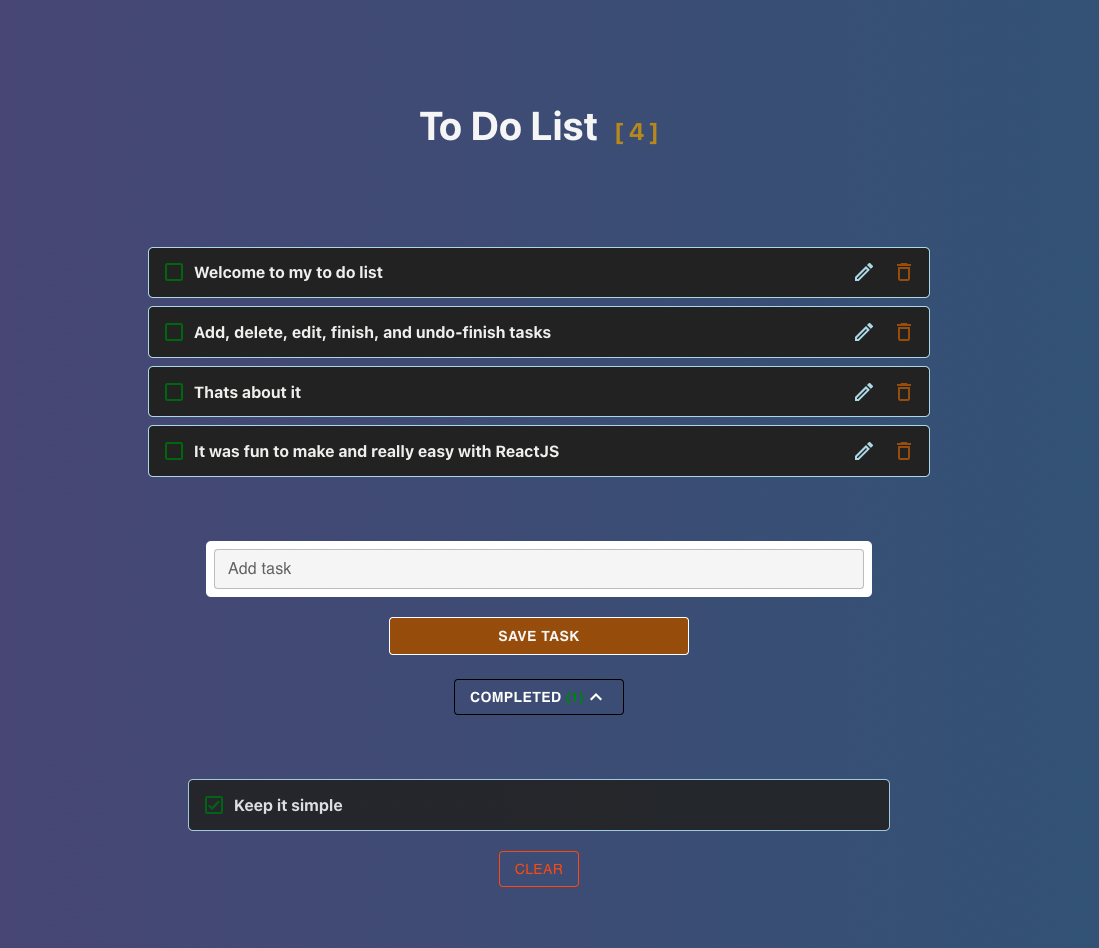
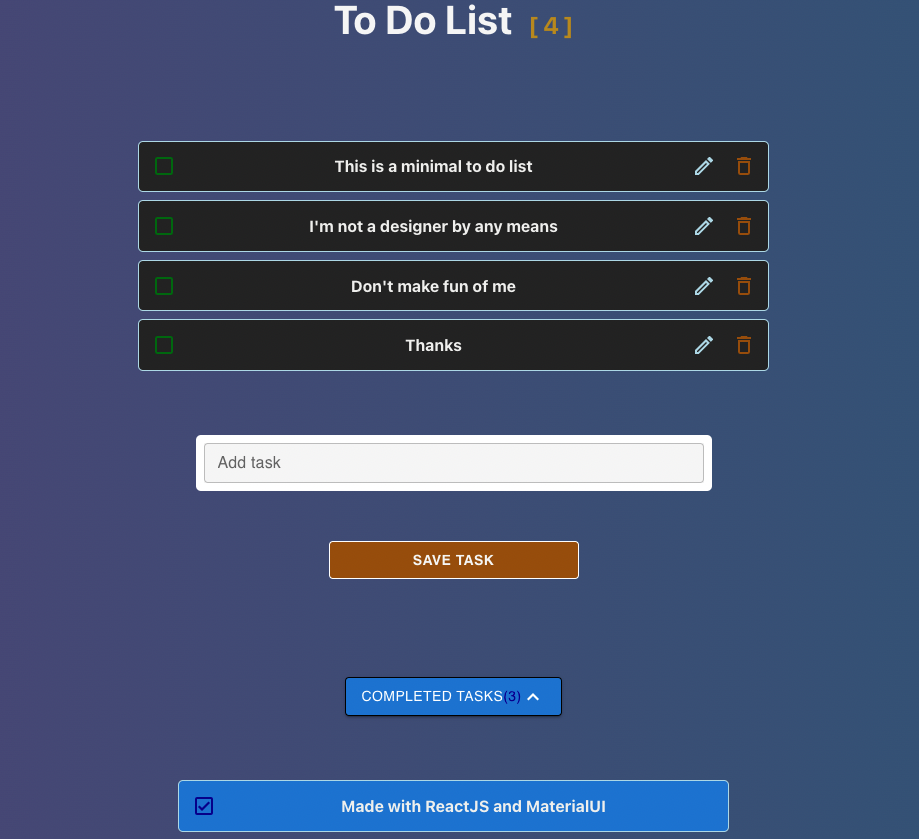
minor styling updates and update README

diff --git a/src/components/DoneList.js b/src/components/DoneList.js
@@ -13,14 +13,12 @@ function DoneList({list, setList, readdTask}) {
         return (
             <Button
                 id="outlined-basic"
-                variant="outlined"
+                variant="contained"
                 type="submit"
                 className="Toggle-done-list-btn"
                 onClick={() => setShowList(!showList)}
             >
-                <span style={{fontWeight: "bold"}}>
-                    COMPLETED <span style={{color: "green"}}>({list.length})</span>
-                </span>
+                Completed tasks <span style={{color: "darkblue"}}>({list.length})</span>
                 {showList ? <ExpandLessOutlinedIcon/> : <ExpandMoreOutlinedIcon/>}
             </Button>
         )
@@ -30,31 +28,32 @@ function DoneList({list, setList, readdTask}) {
         return (
             <div className="List">
                 {
-                    list.map((task, index) => {
-                        return (
-                            <div key={index} className="Task Done-task">
-                                <IconButton 
-                                    aria-label="undo-done"
-                                    onClick={() => readdTask(index)}
-                                >
-                                    <CheckBoxOutlinedIcon className="Checkbox-btn"/>
-                                </IconButton>
-                                <span className="Task-text">
-                                    {task}
-                                </span>
-                            </div>
-                        )
-                    })
+                list.map((task, index) => {
+                    return (
+                        <div key={index} className="Task Done-task">
+                            <IconButton 
+                                aria-label="undo-done"
+                                onClick={() => readdTask(index)}
+                            >
+                                <CheckBoxOutlinedIcon className="Undo-done-btn"/>
+                            </IconButton>
+                            <span className="Task-text">
+                                {task}
+                            </span>
+                        </div>
+                    )
+                })
                 }
 
                 {list.length > 0 &&
                     <Button
                         id="outlined-basic"
-                        variant="outlined"
+                        variant="contained"
+                        color="error"
                         className="Clear-btn"
                         onClick={() => setList([])}
                         >
-                        Clear
+                        Clear Finished
                     </Button>
                 }
   

diff --git a/src/ToDoList.css b/src/ToDoList.css
@@ -9,21 +9,21 @@
 
 .App-body {
   min-height: 40vh;
-  padding-top: 5rem;
+  padding-top: 3rem;
   display: flex;
   flex-direction: column;
   align-items: center;
-  justify-content: center;
   font-size: calc(10px + 2vmin);
 }
 
 /* Alerts */
 .Alert {
-  margin-top: 10px;
-  width: 100%;
-  border-radius: 10px;
+  margin-top: 20px;
+  width: 250px !important;
+  border-radius: 10px !important;
   /* centered the alert */
-  text-align: center;
+  position: absolute;
+  left: 18%;
 }
 
 .Alert-add {
@@ -39,7 +39,6 @@
 }
 
 /* Title */
-
 .Title {
   font-size: 2.5rem;
   color: #F5F5F5;
@@ -54,13 +53,12 @@
   color: darkgoldenrod;
 }
 
-.Done-header {
-  color: green;
+.No-tasks-header {
+  color: lightgreen;
 }
 
-/* Tasks */
-
-.List{
+/* List of tasks */
+.List {
   margin-top: 4rem;
   margin-bottom: 4rem;
 }
@@ -75,8 +73,8 @@
   background-color: #222222;
 }
 
-.Task-text {
-  text-align: start;
+.Task-text, .Task-edit {
+  text-align: center;
   width: 250px;
   font-size: 1rem;
   color: #EFEFED;
@@ -90,8 +88,7 @@
   color: #964B00;
 }
 
-/* Input Form */
-
+/* Add task form */
 .Add-form {
   border-radius: 5px;
   display: flex;
@@ -105,21 +102,6 @@
   border-radius: 5px;
 }
 
-.Save-btn {
-  background-color: #964B00 !important;
-  border: 1px solid white !important;
-  font-weight: bold !important;
-  color: whitesmoke !important;
-  align-items: flex-start;
-  width: 300px;
-  margin: 20px !important;
-}
-
-.Task-edit {
-  width:250px;
-}
-
-
 .Done-edit-btn {
   color: #006600;
 }
@@ -128,44 +110,48 @@
   color: #006600;
 }
 
-
 .Undo-edit-btn {
   color: #964B00;	
 }
 
-.Done-list {
-  padding-bottom: 3rem;
+.Save-btn {
+  background-color: #964B00 !important;
+  border: 1px solid white !important;
+  font-weight: bold !important;
+  color: whitesmoke !important;
+  align-items: flex-start;
+  width: 250px;
+  margin: 50px !important;
 }
 
-.Done-task {
-  opacity: 90%;
-}
-
+/* Completed tasks */
 .Toggle-done-list-btn {
   color: white !important;
   border: 1px solid black !important;
+  margin-top: 3rem !important;
+}
+
+.Undo-done-btn {
+  color: darkblue;
+}
+
+.Done-task {
+  background-color:#1976d2;
 }
 
 .Clear-btn {
-  color: #FF4500 !important;
-  margin-top: 20px !important;
-  border: 1px solid #FF4500 !important;
-}
-
-.Clear-btn:hover {
-  color: white !important;
-  background: #FF4500 !important;
+  margin-top: 2rem !important;
 }
 
 @media only screen and (min-width: 1024px) {
-  .Add-form-input, .Task-text, .Task-edit {
-    width: 650px;
+  .Add-form-input, .Task-text, .Task-edit{
+    width: 500px;
   }
 
   .Alert {
     /* centered */
     width: 400px;
     position: absolute;
-    left: 40%;
+    left: 43%;
   }
 }

diff --git a/src/components/Alert.js b/src/components/Alert.js
@@ -2,7 +2,8 @@ import React, { useEffect } from 'react';
 
 function Alert({type, msg, removeAlert}) {
 
-    const className = (type) => {
+
+    const getClassName = (type) => {
         switch (type) {
             case 'error': {
                 return 'Alert-error'
@@ -22,8 +23,6 @@ function Alert({type, msg, removeAlert}) {
         }
     } 
 
-    console.log('className ' + className);
-
     useEffect(() => {
         const timeout = setTimeout(() => {
             removeAlert();
@@ -33,7 +32,7 @@ function Alert({type, msg, removeAlert}) {
 
     return (
         <div className='Alert'>
-            <div className={className(type)}>
+            <div className={getClassName(type)}>
                 {msg}
             </div>
         </div>

diff --git a/src/components/Header.js b/src/components/Header.js
@@ -2,7 +2,7 @@ import React from 'react';
 
 function Header({size}) {
 
-    const doneHeader = <span className="Done-header">Done</span>
+    const doneHeader = <span className="No-tasks-header">Done</span>
     const numTasksHeader = <span className="Num-tasks-header">[ {size} ]</span>
 
     return (

diff --git a/README.md b/README.md
@@ -2,7 +2,7 @@
 
 <p align="center">
   <a href="zubyj.me/projects/to-do-list/">
-    <img src="./public/screenshot.png">
+    <img src="./public/screenshot.png" width="500">
   </a>
 </p>
 
@@ -16,12 +16,12 @@ Built with ReactJS & MaterialUI
 
 ## Functions
 
-:heavy_plus_sign: Add task
+:writing_hand: Add task
 
-:heavy_minus_sign: Delete task
+:no_entry: Delete task
 
 :white_check_mark: Finish task
 
 :pencil2:	Edit task
 
-:heavy_multiplication_x: Undo finish task	
+:no_entry_sign: Undo finish task	
